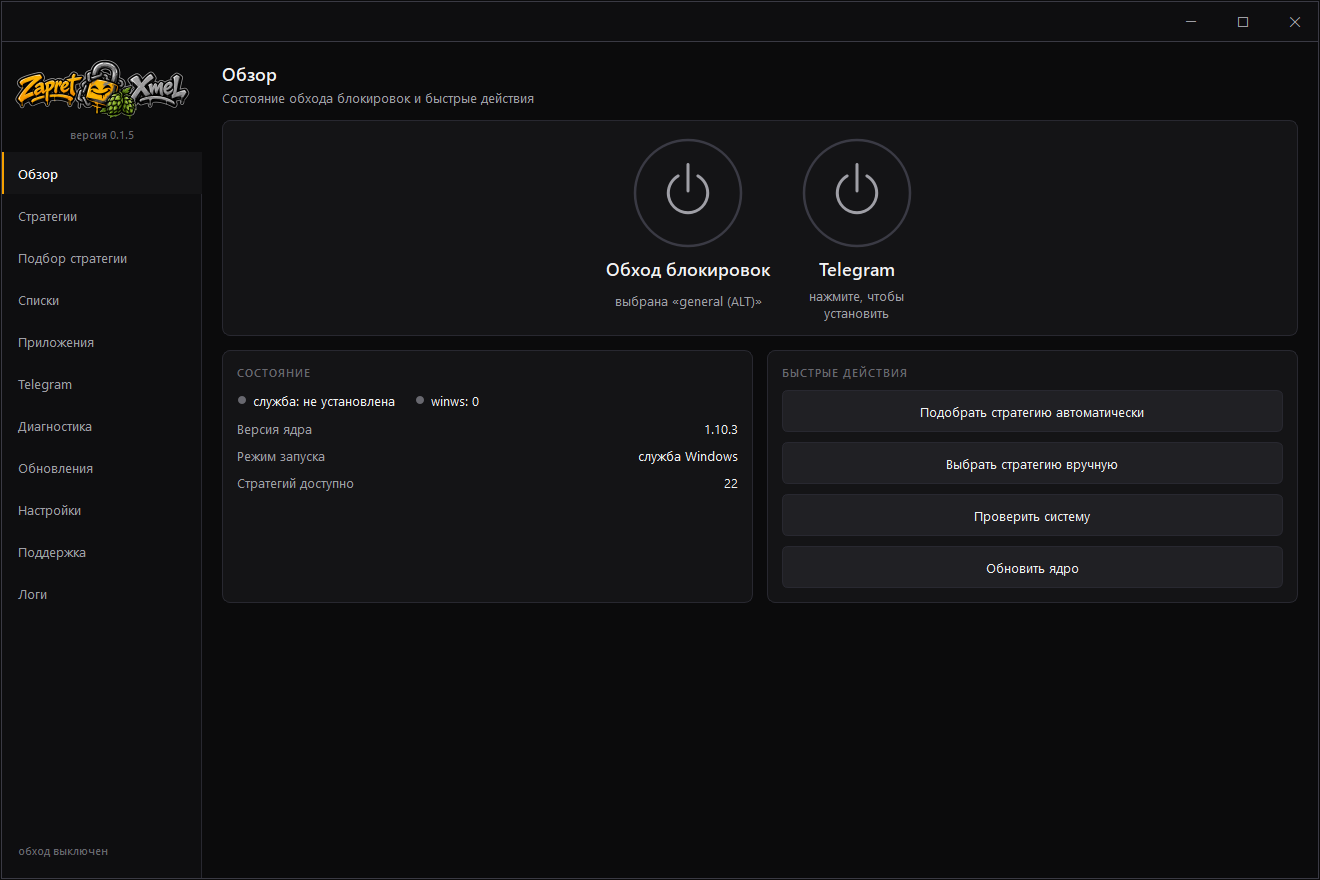
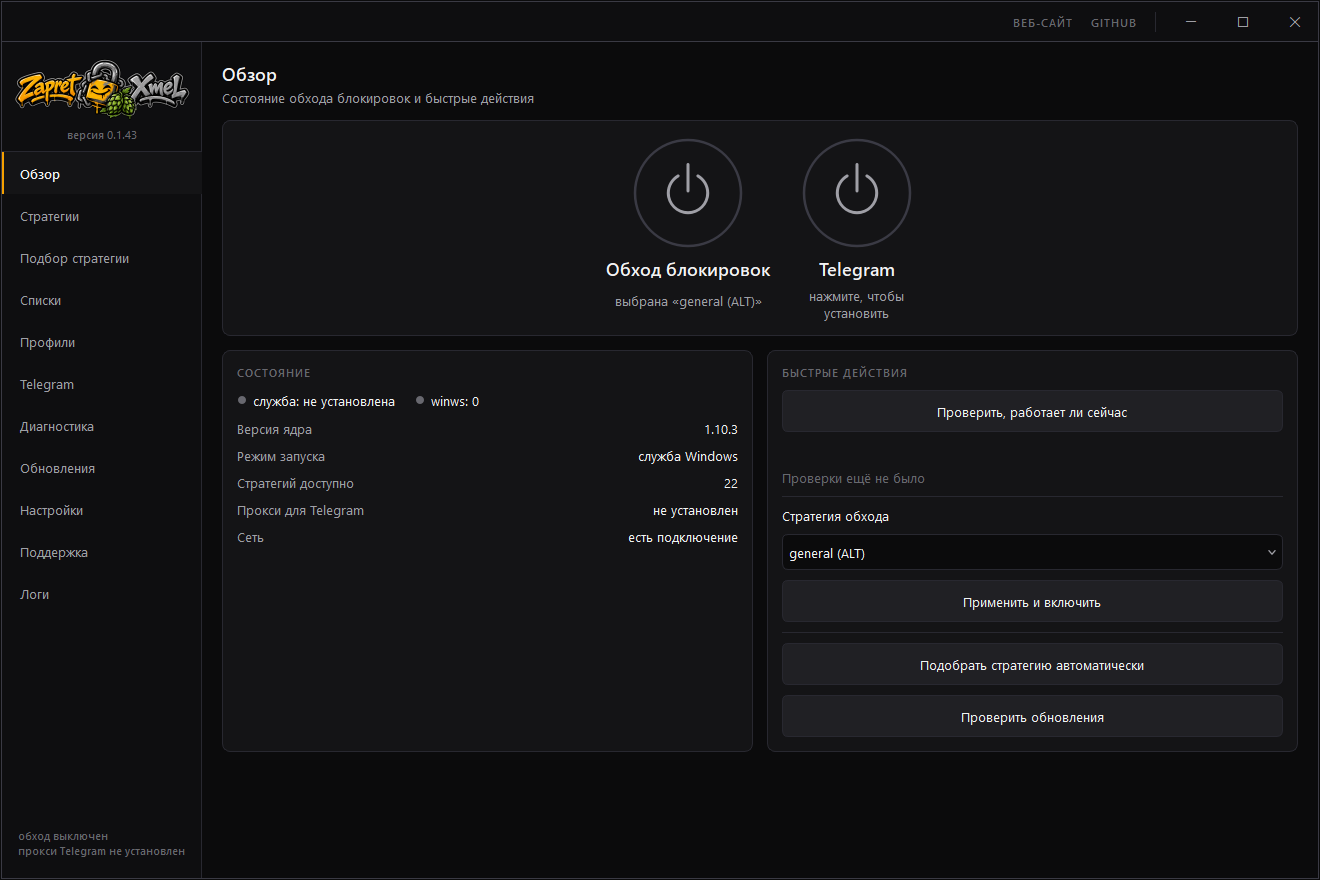
build(сайт): одна команда на оба набора снимков
Светлый набор приходилось снимать отдельным прогоном, и он расходился с
тёмным: другая версия в углу, другое состояние службы. В последний раз
разошёлся и включённым VPN — его название попало прямо на снимок обзора,
который лежит на странице, открытой всему интернету. Проверка туннеля
стояла перед съёмкой, но прикрывала только тот проход, который скрипт
делал сам.

Теперь оба оформления снимаются одним проходом после одной проверки, а
пропавший светлый снимок удаляется из docs/assets: оставленный, он показывал
бы на странице другую версию программы.

diff --git a/tools/make_site_assets.py b/tools/make_site_assets.py
@@ -72,16 +72,25 @@ def resized(source: Path, width: int, target: Path) -> None:
 
 
 def shoot() -> None:
-    """Пересоздаёт снимки экранов перед подготовкой картинок."""
-    print("снимаю экраны приложения…\n")
-    result = subprocess.run(  # noqa: S603 — собственный скрипт проекта
-        [sys.executable, str(ROOT / "tools" / "screenshot.py"), str(SHOTS)],
-        cwd=ROOT,
-        check=False,
-    )
-    if result.returncode != 0:
-        raise SystemExit("не удалось снять экраны")
-    print()
+    """Пересоздаёт снимки экранов перед подготовкой картинок.
+
+    Оба оформления снимаются одним проходом здесь, а не двумя командами
+    руками: светлый набор, снятый отдельно, расходится с тёмным — другая
+    версия в углу, другое состояние службы, а однажды и включённый VPN,
+    название которого видно прямо на экране. Проверка туннеля стоит перед
+    этим вызовом и теперь прикрывает оба набора разом.
+    """
+    for theme in ("dark", "light"):
+        print(f"снимаю экраны приложения ({theme})…\n")
+        extra = [] if theme == "dark" else ["--light"]
+        result = subprocess.run(  # noqa: S603 — собственный скрипт проекта
+            [sys.executable, str(ROOT / "tools" / "screenshot.py"), str(SHOTS), *extra],
+            cwd=ROOT,
+            check=False,
+        )
+        if result.returncode != 0:
+            raise SystemExit(f"не удалось снять экраны ({theme})")
+        print()
 
 
 def social_card(target: Path) -> None:
@@ -182,11 +191,21 @@ def main() -> int:
 
     missing = []
     for name in wanted:
-        source = SHOTS / f"{name}.png"
-        if not source.exists():
-            missing.append(name)
-            continue
-        resized(source, SHOT_WIDTH, TARGET / f"{name}.png")
+        for suffix in ("", "-light"):
+            source = SHOTS / f"{name}{suffix}.png"
+            target = TARGET / f"{name}{suffix}.png"
+            if not source.exists():
+                # Светлый набор не обязателен: страница без него просто
+                # покажет тёмные снимки, а это лучше, чем битая картинка.
+                # Но прошлый светлый снимок тогда убираем: оставленный, он
+                # показывал бы на странице другую версию программы — а один
+                # раз показал и название включённого в тот момент VPN.
+                if suffix:
+                    target.unlink(missing_ok=True)
+                else:
+                    missing.append(name)
+                continue
+            resized(source, SHOT_WIDTH, target)
 
     if missing:
         print(

diff --git a/tools/site_shots.py b/tools/site_shots.py
@@ -1,0 +1,56 @@
+"""Пересоздаёт все снимки для сайта — в обоих оформлениях.
+
+Одна команда вместо трёх: снять экраны тёмными, снять светлыми, уменьшить
+их под страницу и перерисовать картинку для ссылок в мессенджерах.
+
+Запускать **с выключенным VPN**. Обзор и подбор показывают название
+активного туннеля прямо в окне, а страница открыта всему интернету — на ней
+ему не место. Проверка стоит здесь же и просто не даст ошибиться.
+
+    python tools/site_shots.py
+
+Занимает пару минут — оба набора снимаются подряд. После этого VPN можно
+включать обратно.
+"""
+
+from __future__ import annotations
+
+import subprocess
+import sys
+from pathlib import Path
+
+ROOT = Path(__file__).resolve().parents[1]
+sys.path.insert(0, str(ROOT))
+
+from app.core.diagnostics import vpn  # noqa: E402
+
+
+def main() -> int:
+    tunnel = vpn.detect()
+    if tunnel:
+        print(
+            f"Включён {tunnel.label}.\n\n"
+            "Снимки обзора и подбора показывают название туннеля прямо в окне,\n"
+            "а страница открыта всему интернету. Выключите VPN и запустите\n"
+            "команду снова — это минута, потом можно включить обратно."
+        )
+        return 1
+
+    print("Снимаю экраны и готовлю картинки для сайта…\n")
+    result = subprocess.run(  # noqa: S603 — собственный скрипт проекта
+        [sys.executable, str(ROOT / "tools" / "make_site_assets.py"), "--shoot"],
+        cwd=ROOT,
+        check=False,
+    )
+    if result.returncode != 0:
+        return result.returncode
+
+    print(
+        "\nГотово. Снимки лежат в data/screenshots (тёмные и «-light»),\n"
+        "уменьшенные для страницы — в docs/assets."
+    )
+    return 0
+
+
+if __name__ == "__main__":
+    sys.exit(main())

diff --git a/CLAUDE.md b/CLAUDE.md
@@ -698,11 +698,18 @@ plugin could be initialized», а старый процесс не мог убр
 их с длинным сроком жизни, и без него браузер показывает старую страницу
 после правок. Номер меняется руками вместе с этими файлами.
 
-Картинки готовит `tools/make_site_assets.py --shoot` (на `docs/` ссылаться
-наружу нельзя): он снимает экраны, уменьшает их под страницу и рисует
+Картинки готовит `tools/site_shots.py` — одна команда вместо трёх (на `docs/`
+ссылаться наружу нельзя): он снимает экраны **в обоих оформлениях одним
+проходом**, уменьшает их под страницу и рисует
 карточку `og.png` 1200×630 для ссылок в мессенджерах — баннер для этого не
 годится, у него прозрачный фон и свои пропорции, и Telegram с Discord
 подкладывают под него белое полотно. Снимки
 обзора и подбора берутся **только при выключенном VPN** — оба экрана
 показывают название активного туннеля, а страница открыта всему интернету,
 поэтому при включённом скрипт отказывается работать.
+
+Оба оформления снимаются здесь же, а не отдельной командой: снятый отдельно
+светлый набор расходится с тёмным — другая версия в углу, другое состояние
+службы. Однажды он разошёлся и включённым VPN, название которого попало
+прямо на снимок: проверка туннеля стояла перед съёмкой, но прикрывала
+только тот проход, который скрипт делал сам.
